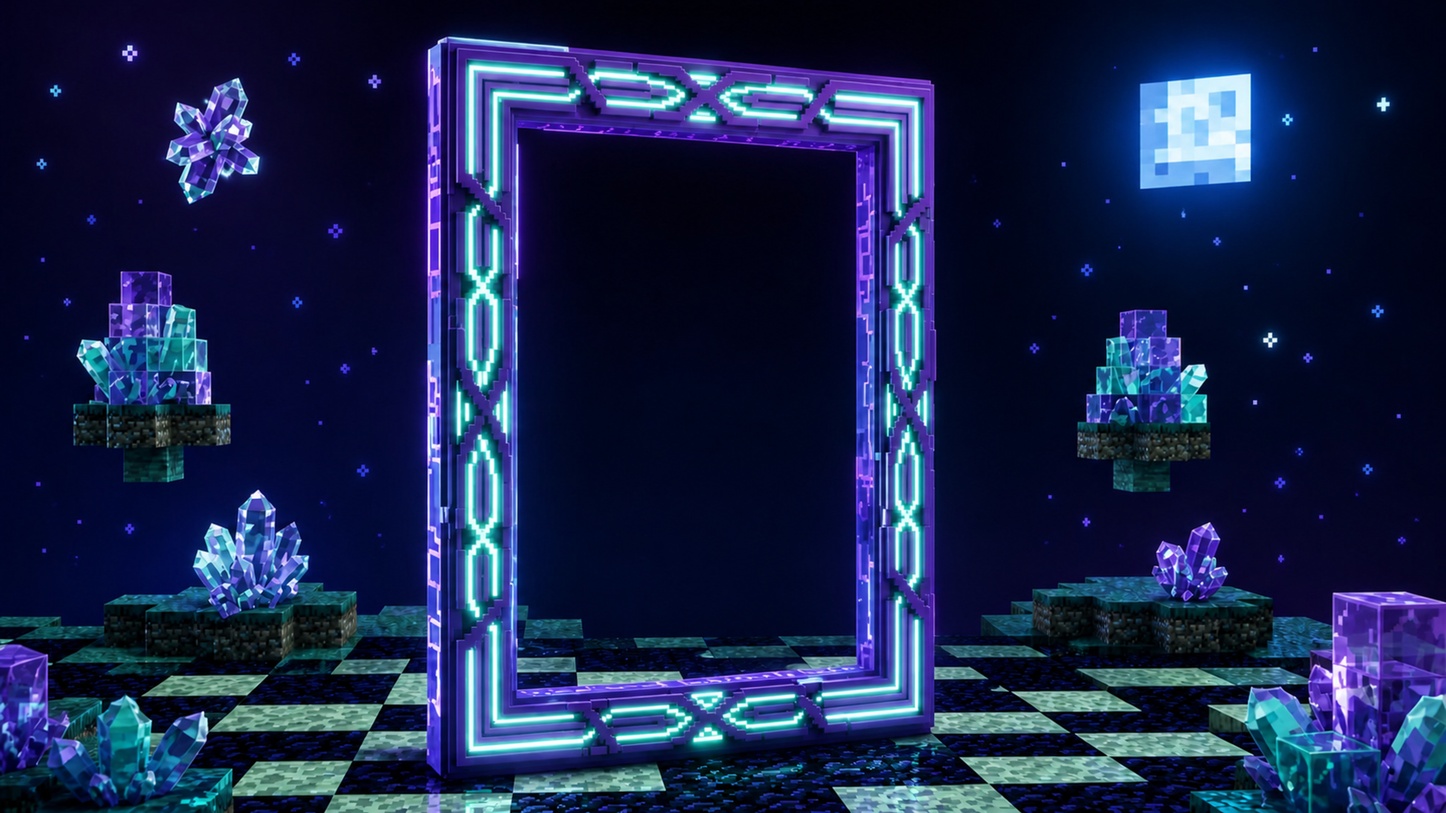
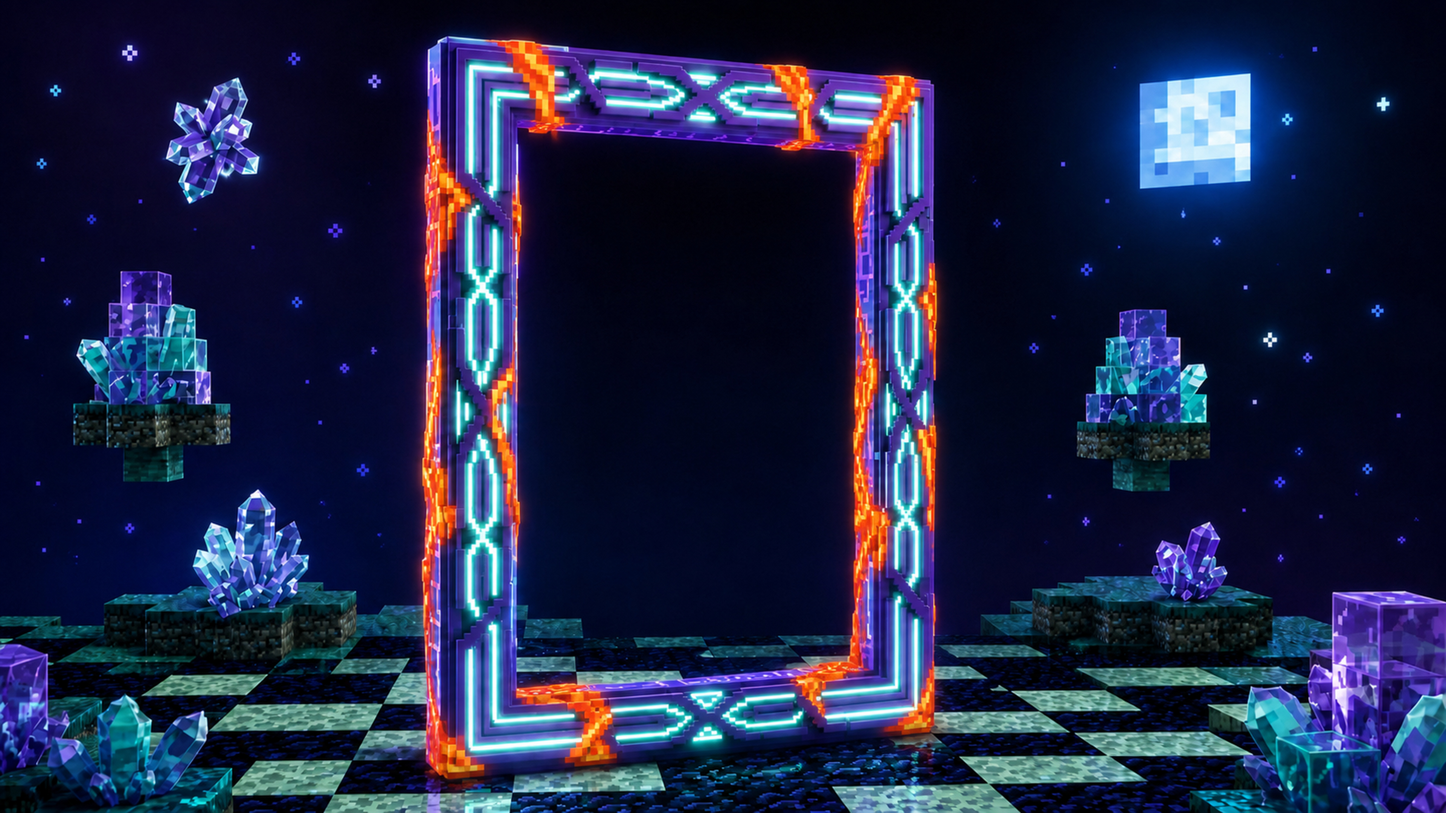
Kiosk app: added lava

diff --git a/tests/unit/test_package_removal.py b/tests/unit/test_package_removal.py
@@ -312,3 +312,11 @@ def test_purge_refuses_nested_bind_mount_before_deleting_any_content(machine):
     assert result.returncode != 0
     assert "mounted directory" in result.stderr
     assert path.read_text() == "{}"
+
+
+def test_upgrade_never_claims_product_policy_as_original_baseline(machine):
+    machine.write("etc/fapolicyd/compiled.rules", "installed product policy")
+    result = machine.run("preinst", "upgrade")
+    assert result.returncode != 0
+    assert "baseline is missing" in result.stderr
+    assert not (machine.root / "var/lib/oh-no-parent-control/fapolicyd-before-install").exists()

diff --git a/docs/System-Design.md b/docs/System-Design.md
@@ -477,6 +477,8 @@ reuse an existing reserved kiosk account after the provisioning checks reject
 root or administrative identities, but it does not claim ownership of that
 account, so later package removal preserves it. Removal requires the kiosk's
 user service to be inactive; it never terminates processes by username. The
+public AccountsService `UncacheUser` method clears the package-owned kiosk's
+cached icon and session metadata before deleting the account. The
 verified package-created home is removed without following symlinks or crossing
 mounted filesystems, including files left behind by account deletion. The
 ownership marker is retained until cleanup succeeds, allowing safe retries.
@@ -488,6 +490,10 @@ it restores the original compiled policy and undoes the package's service
 activation. This explicitly handles fagenrules leaving compiled rules unchanged
 when its source directory is empty. Reloads use fapolicyd's supported CLI.
 The baseline is retained across upgrades and until successful removal.
+An upgrade with a missing baseline fails rather than treating the installed
+product's enforcement as pre-existing administrator policy. Systemd reloads
+the removed display-manager dependency before stopping fapolicyd, so dependency
+stop propagation cannot end the desktop session.
 
 After removing its D-Bus activation files, the package releases only its own
 temporary mask and clears only its obsolete failed broker unit. Ordinary remove
